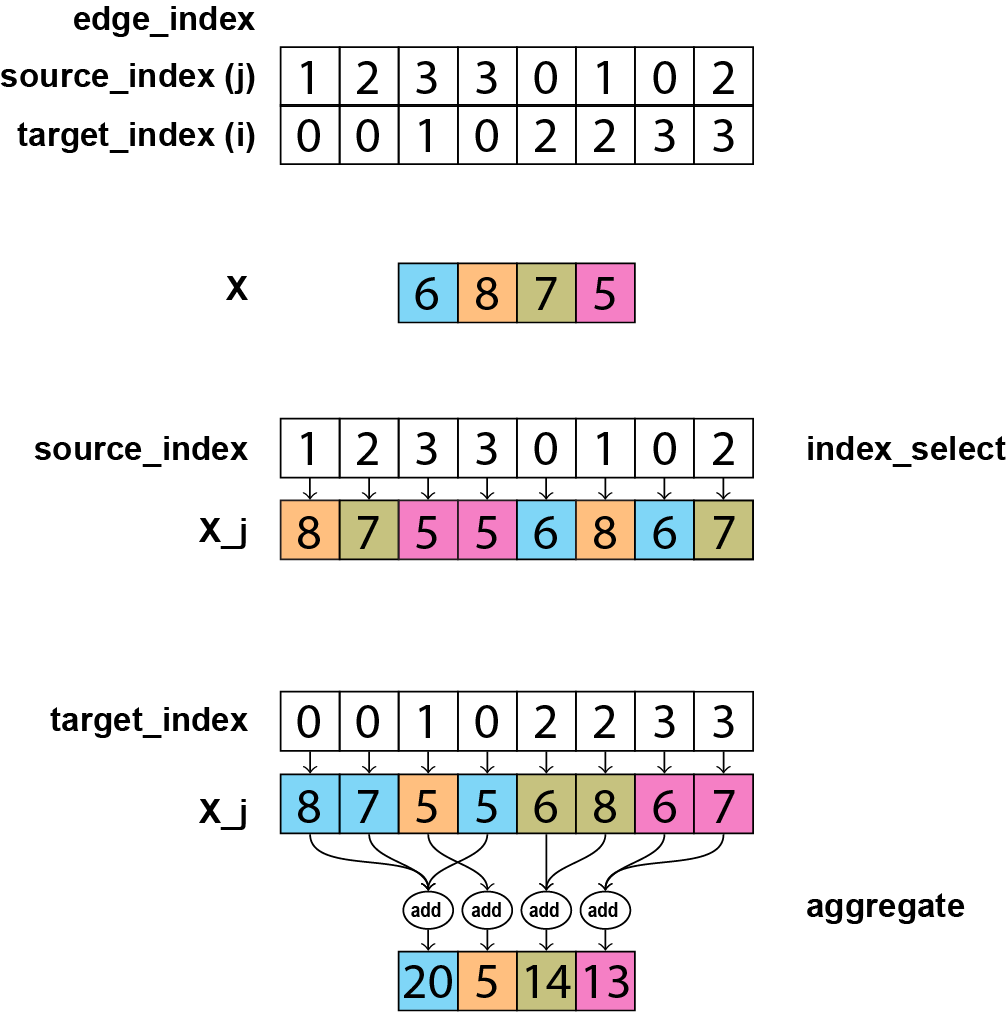
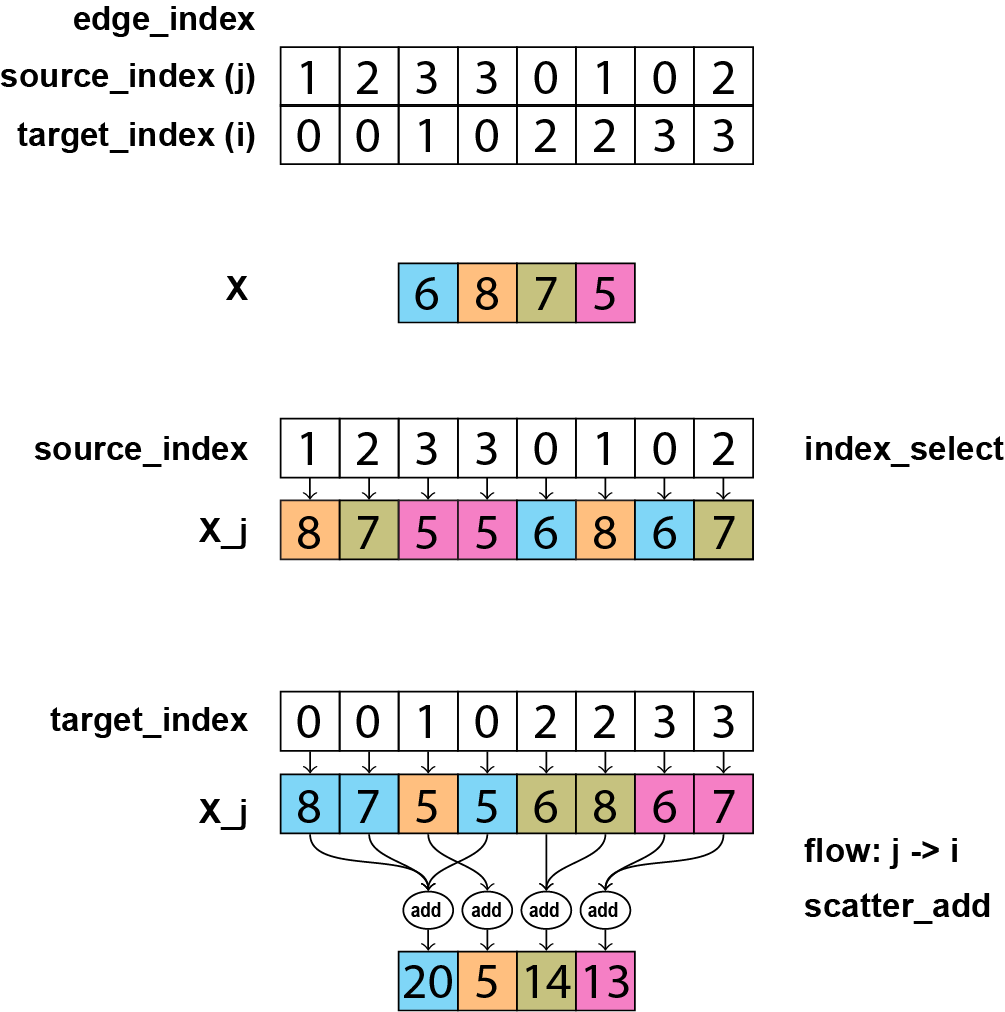
update

diff --git a/content/posts/Graph/2021-08-07-Graph-PyG.md b/content/posts/Graph/2021-08-07-Graph-PyG.md
@@ -10,8 +10,8 @@ math: true
 How to implement a custom `MessagePassing` layer in Pytorch Geometric (PyG) ?
 
 Before you start, something you need to know.
-- `special_arguments`: e.g. `x_j`, `x_i`
-- `aggregation`: scatter_add, scatter_mean, scatter_min, scatter_max
+- `special_arguments`: e.g. `x_j`, `x_i`, `edge_index_j`, `edge_index_i`
+- `aggregate`: scatter_add, scatter_mean, scatter_min, scatter_max
 - PyG `MessagePassing` framework only works for `node_graph`. 
 
 ## MessagePassing in PyTorch Geometric
@@ -61,6 +61,7 @@ In Pytorch Geometric, `self.propagate` will do the following:
   - update embedding of `Node i` with aggregated message , $i \in \mathcal{V}$   
   - e.g. aggregated neighbor message and self message
 
+### Aggregate
 
 ![aggr](/images/ml/PyG-MessagePassing.png)
 
